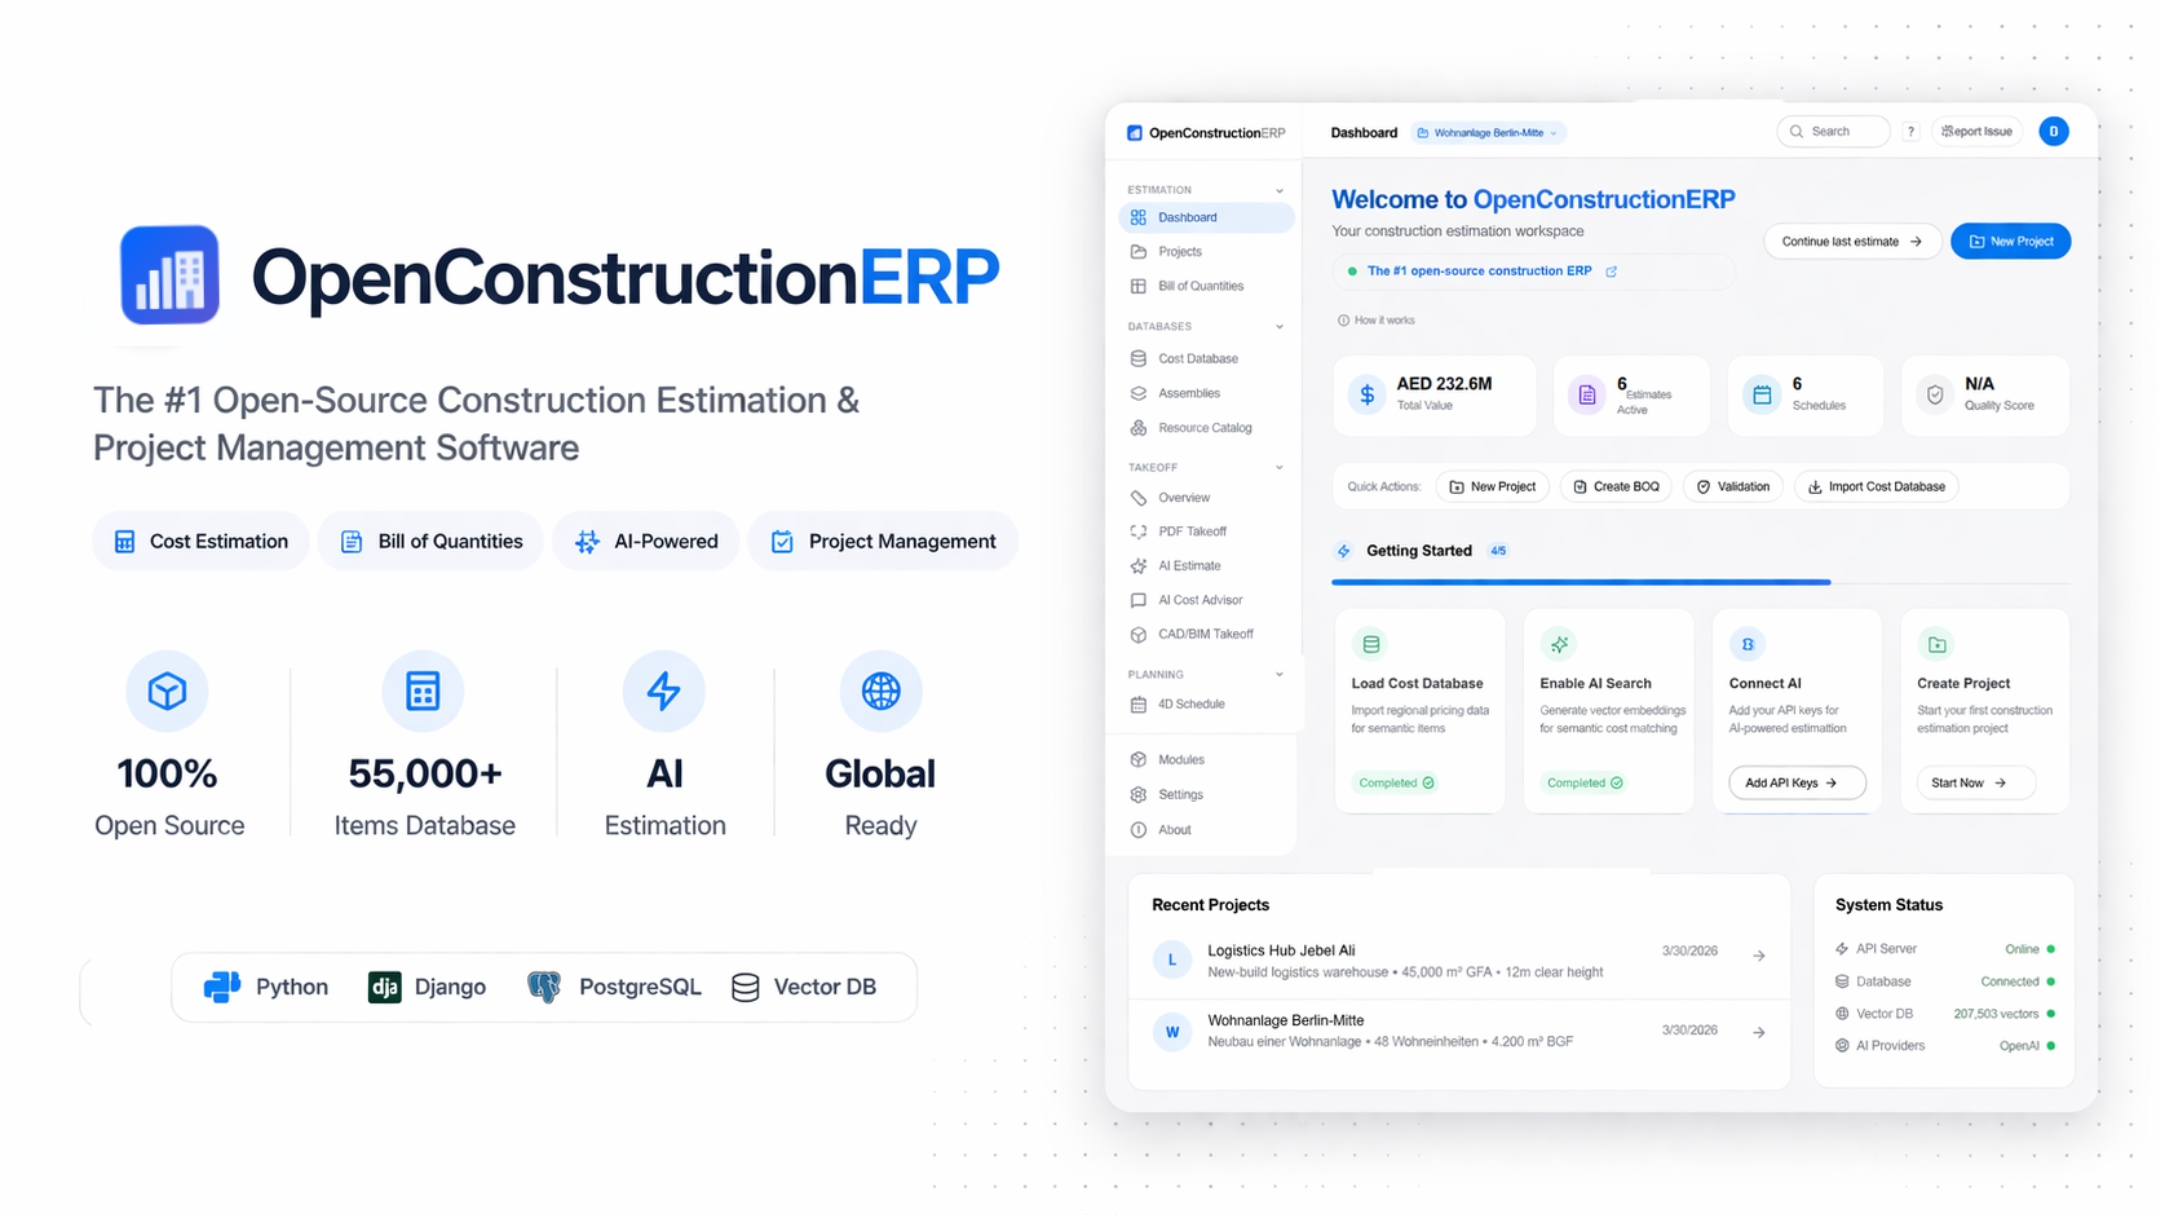
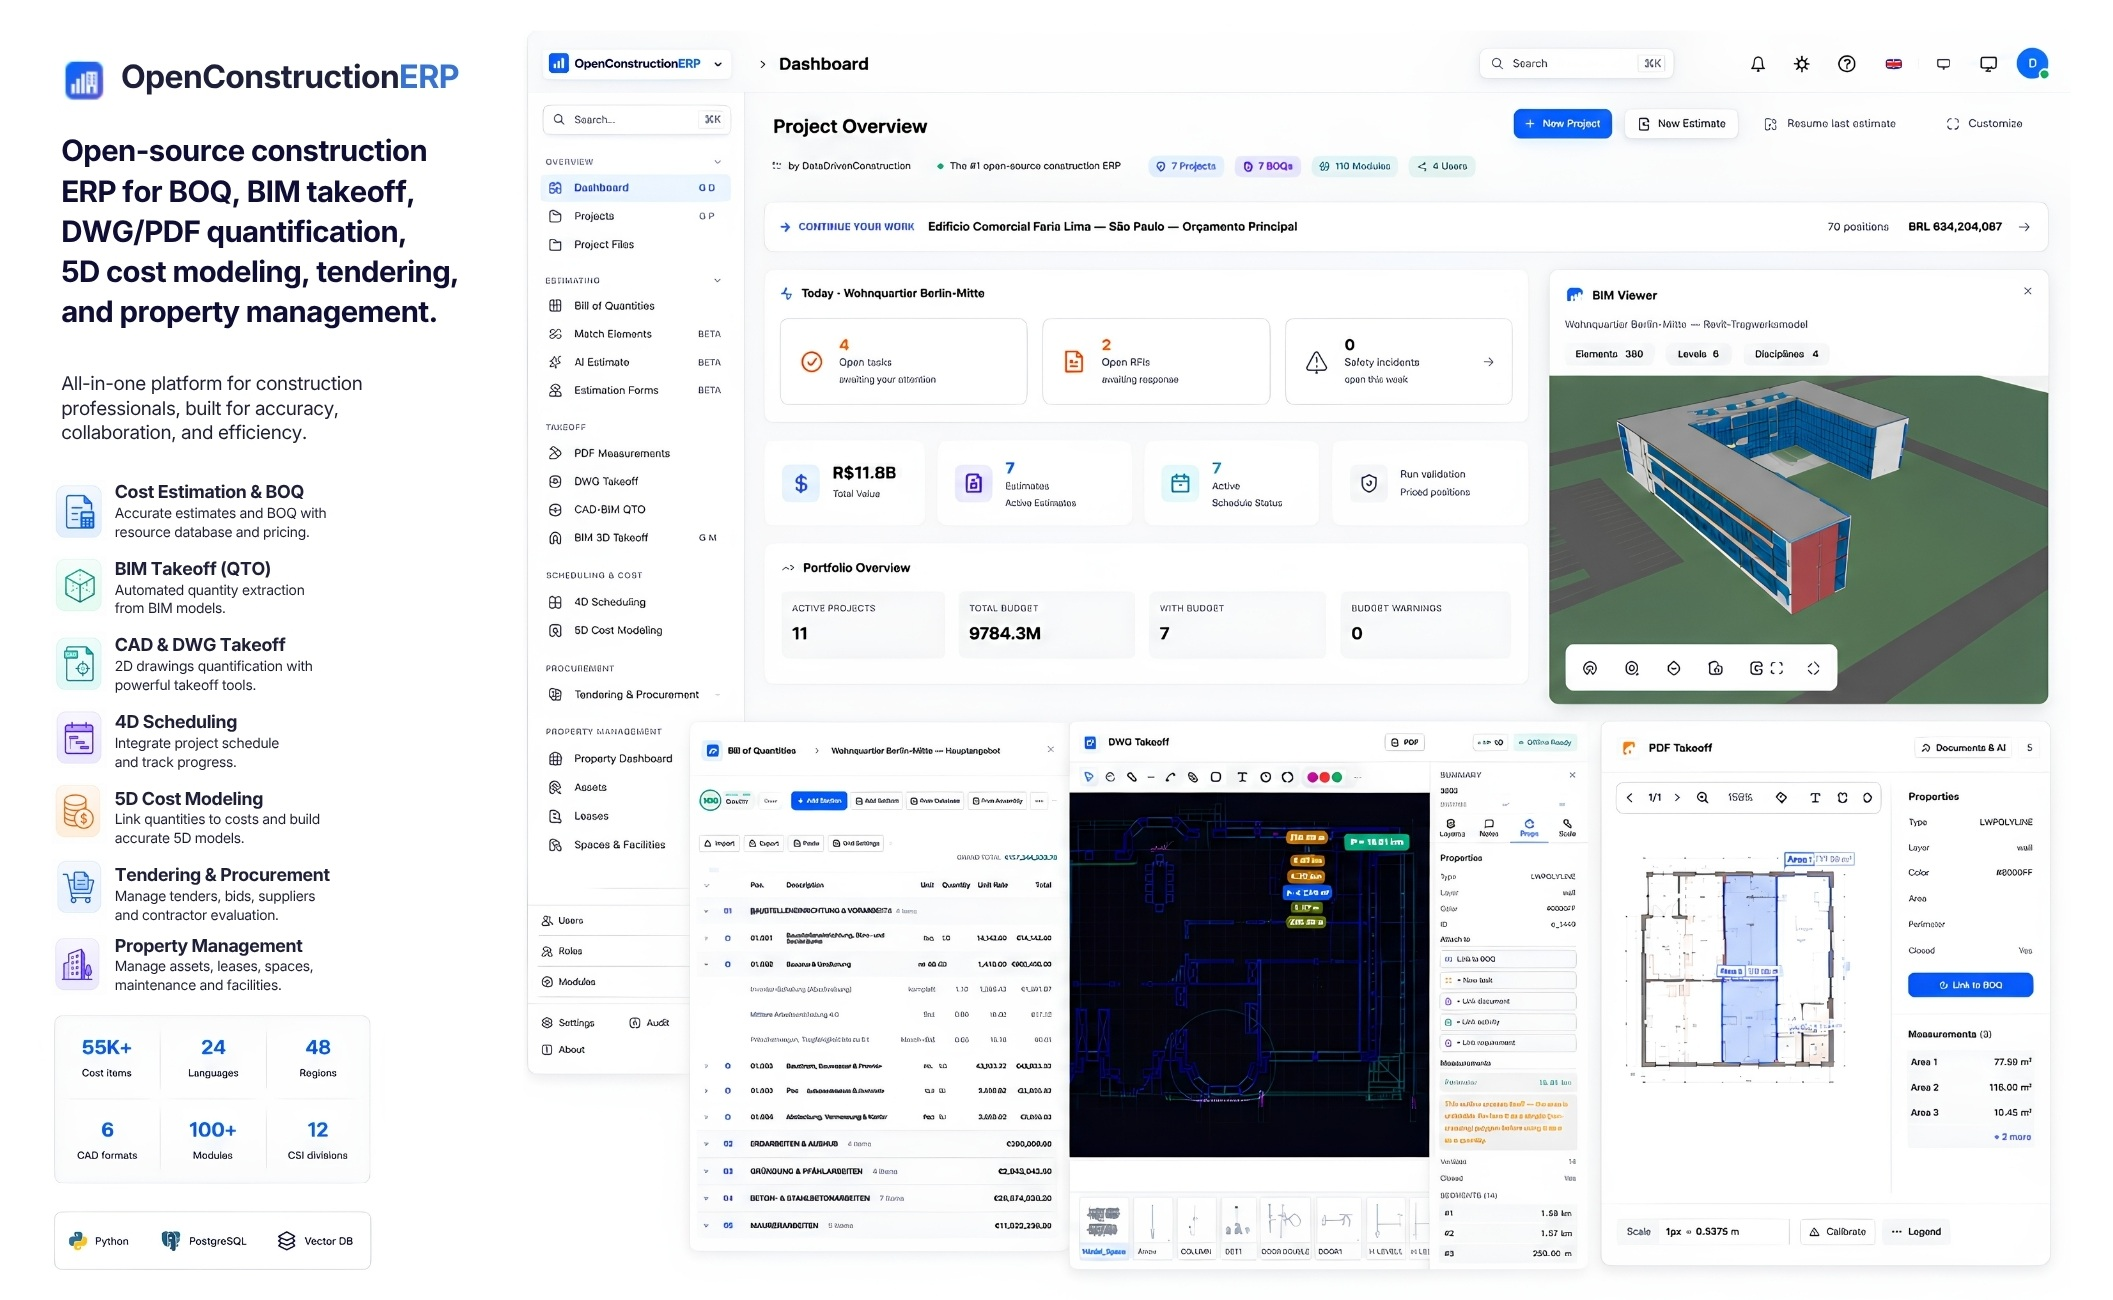
docs(readme): new v4.5.0 hero image + refresh stats (110 modules, 27 langs, 30+ standards) + What's New rewrite

diff --git a/README.md b/README.md
@@ -15,7 +15,7 @@ Professional BOQ, 4D/5D planning, AI-powered estimation, CAD/BIM takeoff — all
 [![Stars](https://img.shields.io/github/stars/datadrivenconstruction/OpenConstructionERP?style=flat&logo=github)](https://github.com/datadrivenconstruction/OpenConstructionERP/stargazers)
 <br/>
 [![Last commit](https://img.shields.io/github/last-commit/datadrivenconstruction/OpenConstructionERP?color=informational)](https://github.com/datadrivenconstruction/OpenConstructionERP/commits/main)
-![Languages](https://img.shields.io/badge/languages-24-orange)
+![Languages](https://img.shields.io/badge/languages-27-orange)
 ![Cost Items](https://img.shields.io/badge/cost_items-55%2C000%2B-red)
 
 <img src="docs/screenshots/hero-overview.jpg" alt="OpenConstructionERP — Dashboard Overview" width="800" />
@@ -26,7 +26,7 @@ Professional BOQ, 4D/5D planning, AI-powered estimation, CAD/BIM takeoff — all
 
 <sub>🎬 <b>1-minute teaser above</b> · for the full 12-minute walkthrough → <a href="https://www.youtube.com/watch?v=X06cIaroAeI"><b>watch on YouTube</b></a> · onboarding → BoQ → BIM → DWG → PDF → AI → dashboard</sub>
 
-*100% open source · 55,000+ cost items · AI estimation · 24 languages · Self-hosted*
+*100% open source · 55,000+ cost items · AI estimation · 27 languages · 110 modules · Self-hosted*
 
 </div>
 
@@ -134,43 +134,53 @@ Star OpenConstructionERP on GitHub and be instantly notified of new releases.
 
 ---
 
-## ✨ What's New in v4.0.0 — Stable Major
+## ✨ What's New in v4.5.0 — PropDev complete + Geo Hub + WhatsNew tour
 
-The **v4.x stable line** — milestone **v4.0.0** marks the platform as production-ready across the full estimation → takeoff → BIM → BOQ → tender → reporting workflow. **103 modules** ship in the box, the `/api/v1/*` surface is now a public contract, and the multi-tenant security pass is complete.
+The **v4.5.0** wave deepens the property-development lifecycle end-to-end, introduces a 3D-globe **Geo Hub** built on Cesium 3D Tiles, and adds in-app onboarding via WhatsNewCard + ProductTour. **110 modules** ship in the box; the `/api/v1/*` surface remains the public contract.
 
 <table>
 <tr>
 <td width="50%" valign="top">
 
-**🏗️ 103 modules · full pro-grade depth**
-- **BOQ pro-grade** — bulk multiply rate/qty/classification, per-cell field-history restore, Ctrl+D fill-down, 8-deep hierarchy, reusable/linked positions, FX-correct CSV/Excel exports.
-- **BIM Hub pro-grade** — Site Compass cube, Solo Mode, Trait Lens (color-by-property), Element Bundles, viewpoint state (camera + filter + clip + thumbnail), serve-time magic-byte validation.
-- **Clash Detection** — DBSCAN engine + FP mining, severity/discipline-pair/MTTR KPIs, rule editor with suggestions.
-- **Takeoff** — PDF + DWG measurements, PaddleOCR + YOLO symbol detection, jsPDF/exceljs exports with subtotals.
-- **Match Elements** — 7-stage visible pipeline (Convert → Load → Schema → Filter → Group → Match → Rollup) with per-stage adjust, vector + lexical + resource matchers, currency-aware rollup, catalogue + display-currency picker.
+**🏢 PropDev complete — Lead → Reservation → SPA → Handover → Warranty**
+- Full clickflow with auto-creation of ContractParty on SPA conversion, Payment Schedule FSM, SnagsBlock per handover with photo upload + promote-to-warranty.
+- **House Type catalogue** with ISO 3166-1 picker (180+ countries) + Custom region — new CountryCombobox + HouseTypeEditModal.
+- **Sub-entity tabs**: Phases · Blocks · Brokers · Price Matrix · Escrow — one screen for every dev operation.
+- **Contacts↔PropDev bridge** — leads/buyers idempotently tagged as Contacts via `Contact.module_tags`.
 
-**🌍 24 languages · 30+ regional catalogues · CWICR 55k positions**
-Multi-currency BOQ with FX-correct exports, vector search via Qdrant for multilingual semantic match.
+**🌍 Geo Hub (Cesium 3D Tiles 1.1)**
+- Three-mode picker: Global / Project / Development with live HUD (cursor lat/lon, altitude, scale bar).
+- Anchored Projects rail (now a floating overlay panel, collapsible).
+- Deeplinks: `?model=`, `?plot=`, `?dev_id=`, `?phase=`, `?block=`.
+- Pin layers for HSE incidents, Punchlist, Daily Diary. "View on map" CTAs throughout BIM/PropDev/Daily Diary/Projects.
+
+**🐛 BIM Walk capture-phase keyboard fix**
+WASD/Arrows/Space/PageUp/PageDown/Ctrl/Shift are caught at the `window` capture phase with preventDefault — no more accidental page scroll or sidebar move while walking the model.
 
 </td>
 <td width="50%" valign="top">
 
-**🔒 Public API contract + multi-tenant security**
-- Every `/api/v1/*` endpoint shipped in 3.10.x–3.12.x is now part of the **public contract**; breaking changes go to `/v2`; 4.x patches only add fields and endpoints.
-- Cross-category IDOR sweep closed **~73 endpoints** across Planning / Communication / Procurement / Documents.
-- Every project-scoped route enforces `verify_project_access`; every owner-scoped route enforces inline `owner_user_id` with 404-not-403 on mismatch.
+**📥 Converter install progress bar**
+Live progress polling on `/bim` and `/dwg-takeoff` while DDC cad2data converter installs — no more guessing whether it hung.
 
-**📊 BI Dashboards · idempotent starter pack**
-5 role-based dashboards (CEO · CFO · PM · Site · Safety), 14 system KPIs with 12-week history, 3 reports, 2 schedules, 4 alert rules — installed in one click via `POST /api/v1/bi-dashboards/install-starter-pack`.
+**🎓 In-app onboarding**
+- **WhatsNewCard** — compact single-row carousel with 6 chip popovers, dismiss-to-pill.
+- **ProductTour** — 8-step spotlight overlay (auto-pauses when other dialogs open).
+- **Sidebar Menu Editor** — per-user hidden-modules (server-synced via UserPreference).
+- **Subscribe button** in header with own-SMTP routing.
 
-**✅ Validation@Import · GAEB X84 writer**
-DIN 276 + GAEB + NRM + MasterFormat + BOQ-quality + project-completeness rule packs wired into the GAEB / Excel import path; GAEB X84 (Nebenangebot) export writer with round-trip tests.
+**🔒 Cumulative since v4.0.0**
+- v4.1–v4.3 Round 4 + Round 5 security: ~73 IDOR closures across 11 modules (carbon, crm, eac, hse_advanced, projects, qms, rfi, service, subcontractors, submittals, variations).
+- BIM Requirements (IDS/COBie), Coordination Hub, Smart Views, Clash AI Triage, BCF 3.0/OpenCDE.
+- DocumentTemplates with backend magic-byte upload validation (defence-in-depth).
+
+**📡 Latest alembic head**: `v3119` · single-head invariant maintained across every wave.
 
 </td>
 </tr>
 </table>
 
-See the [v4.0.0 release](https://github.com/datadrivenconstruction/OpenConstructionERP/releases/tag/v4.0.0) and the [CHANGELOG](CHANGELOG.md) for the per-release breakdown.
+See the [latest release](https://github.com/datadrivenconstruction/OpenConstructionERP/releases/latest) and the [CHANGELOG](CHANGELOG.md) for the per-release breakdown.
 
 ---
 
@@ -182,8 +192,8 @@ Construction cost estimation software is expensive, closed-source, and locked to
 |-------------|-------------|
 | **Free forever** | AGPL-3.0 license. No subscriptions, no per-seat fees, no vendor lock-in. |
 | **Your data, your server** | Self-hosted. Everything runs on your machine — nothing leaves your network. |
-| **21 languages** | Full UI translation: English, German, French, Spanish, Portuguese, Russian, Chinese, Arabic, Hindi, Japanese, Korean, and 10 more. |
-| **20 regional standards** | DIN 276, NRM 1/2, CSI MasterFormat, GAEB, ГЭСН, DPGF, GB/T 50500, CPWD, and more. |
+| **27 languages** | Full UI translation: English, German, French, Spanish, Portuguese, Russian, Chinese, Arabic, Hindi, Japanese, Korean, and 16 more. |
+| **30+ regional standards** | DIN 276, NRM 1/2, CSI MasterFormat, GAEB, ГЭСН, DPGF, GB/T 50500, CPWD, ÖNORM, Birim Fiyat, Sekisan, SINAPI, and more. |
 | **AI-powered** | Connect any LLM provider (Anthropic, OpenAI, Gemini, Mistral, Groq, DeepSeek) for smart estimation. |
 | **55,000+ cost items** | CWICR database with 11 regional pricing databases (DACH, UK, US, France, Spain, Brazil, Russia, UAE, China, India, Canada). |
 
@@ -202,8 +212,8 @@ Construction cost estimation software is expensive, closed-source, and locked to
 <tr><td><b>Self-hosted / offline</b></td><td align="center">&#10004;</td><td align="center">&#10006;</td><td align="center">&#10006;</td><td align="center">&#9888; partial</td><td align="center">&#10006;</td></tr>
 <tr><td><b>Price</b></td><td align="center"><b>Free forever</b></td><td align="center">~&#8364;500/mo</td><td align="center">~&#8364;300/mo</td><td align="center">~&#8364;200/mo</td><td align="center">~&#8364;30/mo</td></tr>
 <tr><td><b>AI estimation</b></td><td align="center">&#10004; 7 LLM providers</td><td align="center">&#10006;</td><td align="center">&#10006;</td><td align="center">&#10006;</td><td align="center">&#10006;</td></tr>
-<tr><td><b>UI languages</b></td><td align="center"><b>21</b></td><td align="center">5</td><td align="center">3</td><td align="center">2</td><td align="center">8</td></tr>
-<tr><td><b>Regional standards</b></td><td align="center"><b>20</b></td><td align="center">4</td><td align="center">3</td><td align="center">2</td><td align="center">&mdash;</td></tr>
+<tr><td><b>UI languages</b></td><td align="center"><b>27</b></td><td align="center">5</td><td align="center">3</td><td align="center">2</td><td align="center">8</td></tr>
+<tr><td><b>Regional standards</b></td><td align="center"><b>30+</b></td><td align="center">4</td><td align="center">3</td><td align="center">2</td><td align="center">&mdash;</td></tr>
 <tr><td><b>BOQ editor</b></td><td align="center">&#10004;</td><td align="center">&#10004;</td><td align="center">&#10004;</td><td align="center">&#10004;</td><td align="center">&#10006;</td></tr>
 <tr><td><b>CAD/BIM takeoff</b></td><td align="center">&#10004; RVT IFC DWG DGN</td><td align="center">&#10004;</td><td align="center">&#10004;</td><td align="center">&#10006;</td><td align="center">&#10004; PDF only</td></tr>
 <tr><td><b>4D/5D planning</b></td><td align="center">&#10004;</td><td align="center">&#10004;</td><td align="center">&#10006;</td><td align="center">&#10006;</td><td align="center">&#10006;</td></tr>
@@ -214,6 +224,8 @@ Construction cost estimation software is expensive, closed-source, and locked to
 <tr><td><b>Real-time collaboration</b></td><td align="center">&#10004; soft locks + presence</td><td align="center">&#10004;</td><td align="center">&#10006;</td><td align="center">&#10006;</td><td align="center">&#10006;</td></tr>
 <tr><td><b>Open data export</b></td><td align="center">&#10004; GAEB, Excel, CSV, JSON, PDF</td><td align="center">&#9888; limited</td><td align="center">&#9888; limited</td><td align="center">&#9888; limited</td><td align="center">PDF only</td></tr>
 <tr><td><b>BIM requirements (IDS/COBie)</b></td><td align="center">&#10004; import + export</td><td align="center">&#10006;</td><td align="center">&#10006;</td><td align="center">&#10006;</td><td align="center">&#10006;</td></tr>
+<tr><td><b>Property development lifecycle</b></td><td align="center">&#10004; Lead→Reservation→SPA→Handover→Warranty</td><td align="center">&#10006;</td><td align="center">&#10006;</td><td align="center">&#10006;</td><td align="center">&#10006;</td></tr>
+<tr><td><b>3D globe / geo-anchored projects</b></td><td align="center">&#10004; Cesium 3D Tiles</td><td align="center">&#9888; map only</td><td align="center">&#10006;</td><td align="center">&#10006;</td><td align="center">&#10006;</td></tr>
 </table>
 
 <sub>Comparison reflects typical category capabilities based on publicly available information as of Q1 2026. Pricing is approximate (per-seat, list price) and varies by vendor and region. OpenConstructionERP is an independent open-source project and is not affiliated with any commercial vendor in the categories above.</sub>
@@ -458,7 +470,7 @@ Ensure your estimates meet regulatory standards before submission:
 
 Get productive in under 10 minutes:
 
-1. **Choose language** — Select from 21 languages. The entire UI switches instantly
+1. **Choose language** — Select from 27 languages. The entire UI switches instantly
 2. **Select region** — Determines default cost database, currency, and classification standard
 3. **Load cost database** — One-click import of CWICR pricing data for your region (55,000+ items)
 4. **Import resource catalog** — Materials, labor, equipment, and pre-built assemblies
@@ -558,13 +570,13 @@ Three demo accounts are created automatically on first start. The default passwo
 | Layer | Technology | Purpose |
 |-------|-----------|---------|
 | Backend | Python 3.12+ / FastAPI | Async API, Pydantic v2 validation, modular architecture |
-| Frontend | React 18 / TypeScript / Vite | SPA with code splitting, 21 language bundles |
+| Frontend | React 18 / TypeScript / Vite | SPA with code splitting, 27 language bundles |
 | Database | PostgreSQL 16+ / SQLite (dev) | OLTP with JSON columns, zero-config SQLite for development |
 | UI | Tailwind CSS / AG Grid | Professional data grid, responsive design, dark mode |
 | AI | Any LLM via REST API | Anthropic, OpenAI, Gemini, Mistral, Groq, DeepSeek |
 | Vector Search | LanceDB (embedded) / Qdrant | Semantic cost item search, 384d or 3072d embeddings |
 | CAD/BIM | [DDC cad2data](https://github.com/datadrivenconstruction) | RVT, IFC, DWG, DGN → structured quantities |
-| i18n | i18next + 21 language packs | Full RTL support (Arabic), locale-aware formatting |
+| i18n | i18next + 27 language packs | Full RTL support (Arabic), locale-aware formatting |
 
 ## Architecture
 
@@ -592,7 +604,7 @@ This pipeline is the reason OpenConstructionERP can replace several commercial p
 flowchart TB
     UI["Frontend SPA<br>React 18, TypeScript, Vite<br>AG Grid, Tailwind, PDF.js"]
 
-    subgraph Backend ["FastAPI Backend, 88 modules"]
+    subgraph Backend ["FastAPI Backend, 110 modules"]
         CORE["Core<br>Module loader, Event bus, Hooks, RBAC<br>Validation, FSM + audit log"]
         ESTIM["Estimating<br>BOQ, Costs, Catalog, Assemblies<br>Takeoff, BIM Hub, Match-Elements, 5D"]
         FIELD["Field Operations<br>Service, Equipment, Daily Diary<br>Portal, Resources & Crew"]
@@ -645,11 +657,12 @@ flowchart TB
                    │ REST + SSE
 ┌──────────────────┴───────────────────────────────┐
 │  Backend (FastAPI)                               │
-│  60+ auto-discovered modules · Plugin system     │
+│  110 auto-discovered modules · Plugin system     │
 ├──────────────────────────────────────────────────┤
 │  BOQ · Costs · Schedule · 5D · Validation · AI   │
 │  Takeoff · Tendering · Risk · Reports · Catalog  │
 │  Requirements · Markups · Punch List · BIM Hub   │
+│  PropDev · Geo Hub · Coordination · Clash AI     │
 ├──────────────────────────────────────────────────┤
 │  Database (PostgreSQL / SQLite)                  │
 │  Vector DB (LanceDB / Qdrant)                    │